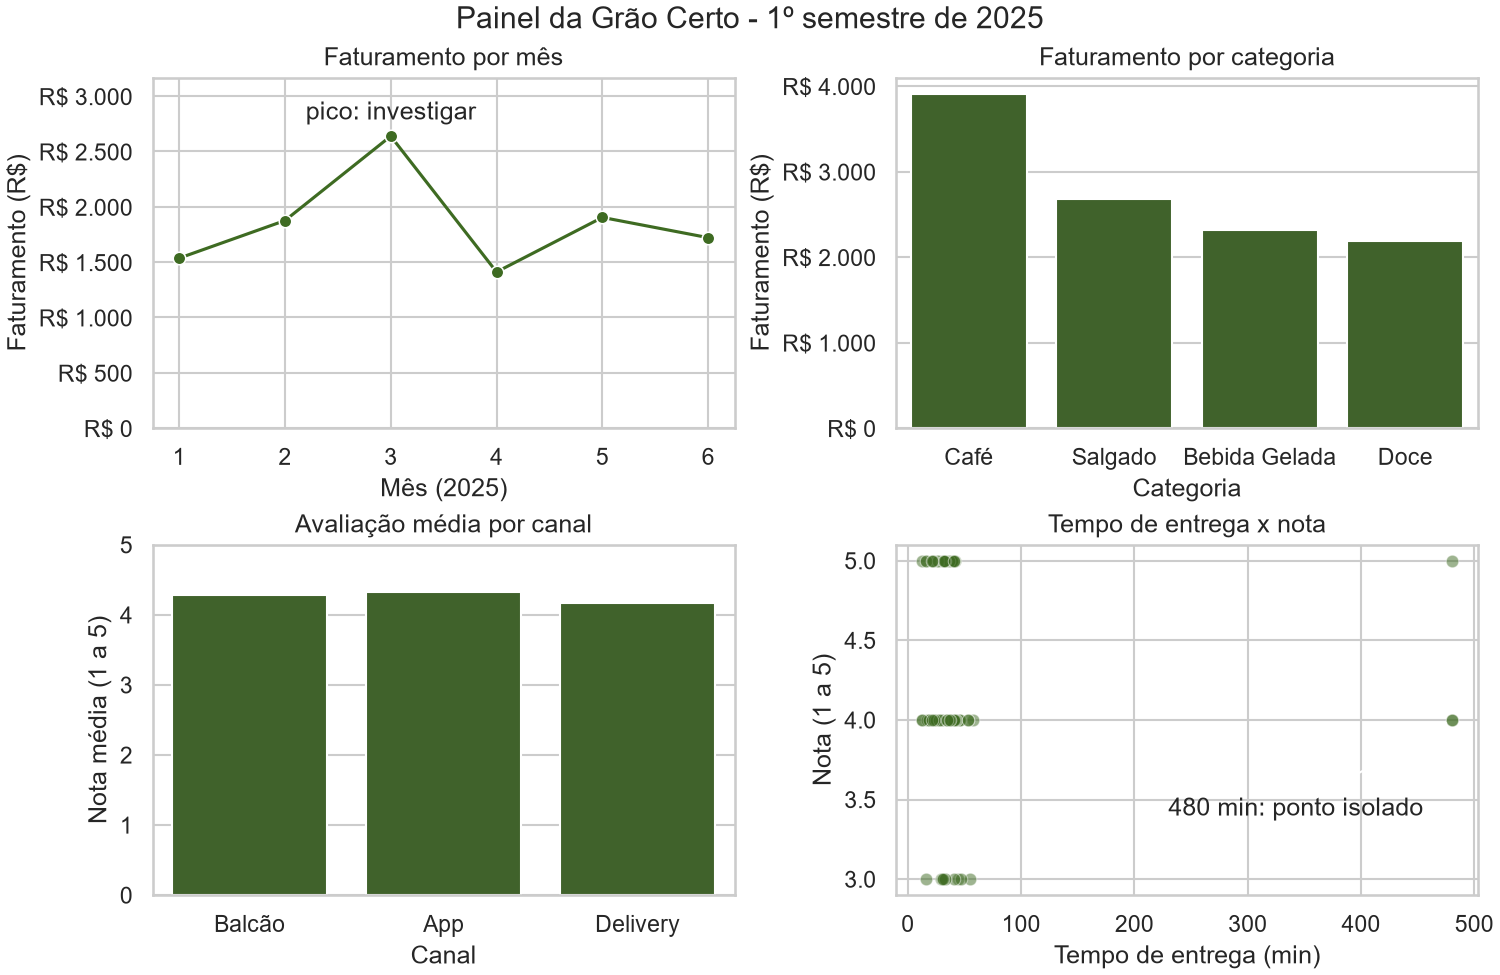
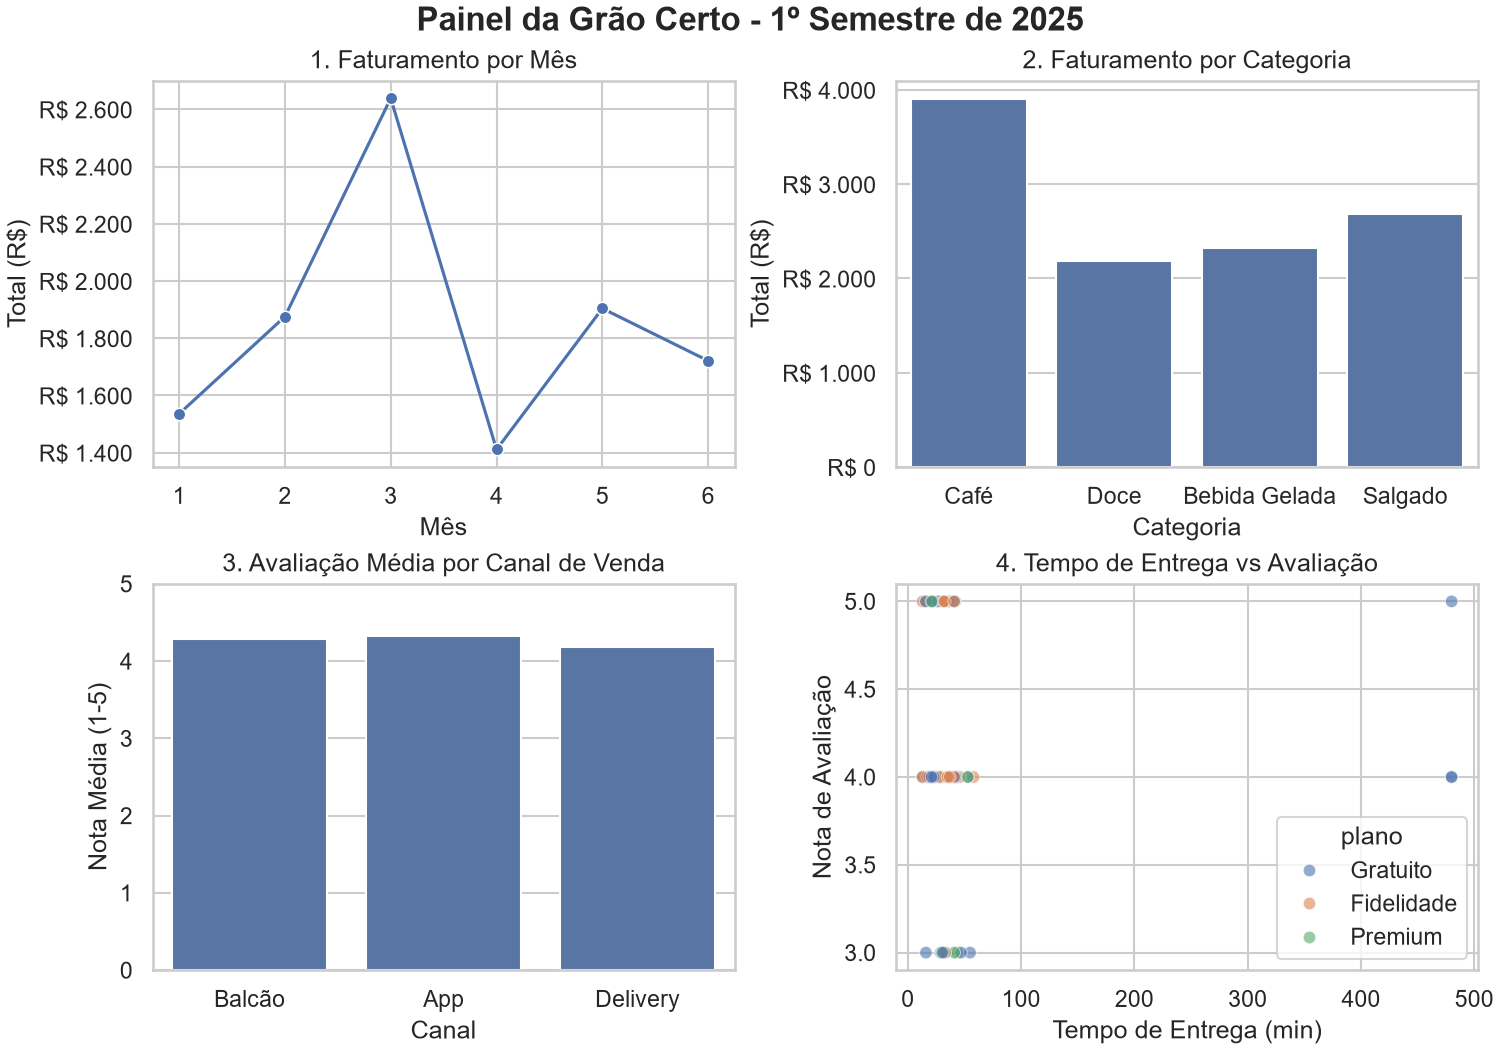
feature/painel-cafeteria

diff --git a/aula2_visualizacao_matplotlib_seaborn/exercicio_08_exercicio_final_painel_da_cafeteria/painel_cafeteria1.py b/aula2_visualizacao_matplotlib_seaborn/exercicio_08_exercicio_final_painel_da_cafeteria/painel_cafeteria1.py
@@ -1,0 +1,88 @@
+from pathlib import Path
+import pandas as pd
+import matplotlib.pyplot as plt
+import seaborn as sns
+from matplotlib.ticker import FuncFormatter
+
+# 1. Definir o caminho base dinâmico
+BASE = Path(__file__).parent if "__file__" in globals() else Path.cwd()
+
+def criar_painel(base):
+    # Ajusta o tema visual padrão
+    sns.set_theme(style="whitegrid")
+
+    # Prepara dados para o gráfico de entrega vs avaliação
+    entrega = base.dropna(subset=["tempo_entrega_min", "avaliacao"])
+
+    # Formata números como moeda (R$)
+    reais = FuncFormatter(lambda v, pos: f"R$ {v:,.0f}".replace(",", "."))
+
+    # Criando a estrutura de 2 linhas e 2 colunas
+    fig, axes = plt.subplots(nrows=2, ncols=2, figsize=(10, 7), layout="constrained")
+
+    # 1. Evolução Mensal do Faturamento
+    sns.lineplot(
+        data=base,
+        x="mes",
+        y="total",
+        estimator="sum",
+        errorbar=None,
+        marker="o",
+        ax=axes[0, 0]
+    )
+    axes[0, 0].set_title("1. Faturamento por Mês")
+    axes[0, 0].set_xlabel("Mês")
+    axes[0, 0].set_ylabel("Total (R$)")
+    axes[0, 0].yaxis.set_major_formatter(reais)
+
+    # 2. Faturamento por Categoria
+    sns.barplot(
+        data=base,
+        x="categoria",
+        y="total",
+        estimator="sum",
+        errorbar=None,
+        ax=axes[0, 1]
+    )
+    axes[0, 1].set_title("2. Faturamento por Categoria")
+    axes[0, 1].set_xlabel("Categoria")
+    axes[0, 1].set_ylabel("Total (R$)")
+    axes[0, 1].yaxis.set_major_formatter(reais)
+
+    # 3. Avaliação Média por Canal de Venda
+    sns.barplot(
+        data=base,
+        x="canal",
+        y="avaliacao",
+        estimator="mean",
+        errorbar=None,
+        ax=axes[1, 0]
+    )
+    axes[1, 0].set_title("3. Avaliação Média por Canal de Venda")
+    axes[1, 0].set_xlabel("Canal")
+    axes[1, 0].set_ylabel("Nota Média (1-5)")
+    axes[1, 0].set_ylim(0, 5)
+
+    # 4. Tempo de Entrega vs Avaliação
+    sns.scatterplot(
+        data=entrega,
+        x="tempo_entrega_min",
+        y="avaliacao",
+        hue="plano",
+        alpha=0.6,
+        ax=axes[1, 1]
+    )
+    axes[1, 1].set_title("4. Tempo de Entrega vs Avaliação")
+    axes[1, 1].set_xlabel("Tempo de Entrega (min)")
+    axes[1, 1].set_ylabel("Nota de Avaliação")
+
+    # Título Geral e Exportação (DENTRO da função onde fig existe)
+    fig.suptitle("Painel da Grão Certo - 1º Semestre de 2025", fontsize=16, fontweight="bold")
+    fig.savefig(BASE / "painel.png", dpi=150)
+    print("Painel gerado e salvo como 'painel.png' com sucesso!")
+    plt.show()
+
+# Bloco de execução principal
+if __name__ == "__main__":
+    base = pd.read_csv(BASE / "pedidos_prontos.csv", parse_dates=["data"])
+    criar_painel(base)
